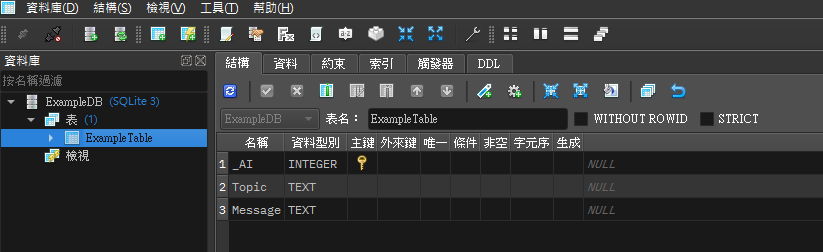
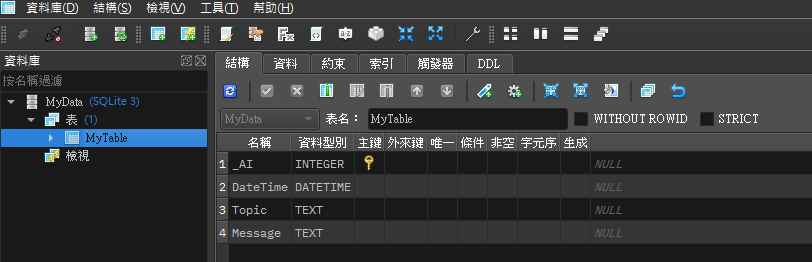
修改建立資料表的敘述與照片

Changed region(s): [[0.0, 0.0, 1.0, 1.0]]

diff --git a/index.md b/index.md
@@ -55,30 +55,34 @@ SQL是結構化查詢語言Structured Query Language的縮寫
 ## 建立資料表
 
 ```sql
-CREATE TABLE ExampleTable (_AI INTEGER PRIMARY KEY AUTOINCREMENT,Topic TEXT,Message TEXT);
+CREATE TABLE MyTable (_AI INTEGER PRIMARY KEY AUTOINCREMENT,DateTime DATETIME,Topic TEXT,Message TEXT);
 ```
 
 可以加上IF NOT EXISTS來判斷資料表是否存在，不存在才建立
 
 ```sql
-CREATE TABLE IF NOT EXISTS ExampleTable (_AI INTEGER PRIMARY KEY AUTOINCREMENT,Topic TEXT,Message TEXT);
+CREATE TABLE IF NOT EXISTS MyTable (_AI INTEGER PRIMARY KEY AUTOINCREMENT,DateTime DATETIME,Topic TEXT,Message TEXT);
 ```
 
-上述指令會建立一個新的資料表（不存在才建立）
+使用 CREATE TABLE 可以建立一個新的資料表。加上 IF NOT EXISTS 的判斷，可以確保只有在該表不存在時才會執行建立操作，避免重複建立相同名稱的資料表而導致錯誤
 
-資料表名稱為ExampleTable
+在上述SQL指令中：
 
-表中有3個欄位
-
+- 資料表名稱為MyTable
 - _AI：是一個Integer型態的主鍵，並套用AUTOINCREMENT屬性，表示在插入新資料時此欄位會自動遞增
+- DateTime：是一個DATETIME型態的欄位，可以儲存時間的資料
 - Topic：是一個TEXT型態的欄位，可以儲存字串資料
 - Message：是一個TEXT型態的欄位，可以儲存字串資料
 
-建立表格執行結果
+建立表格的執行結果如下圖所示：
 ![Image](./images/建立資料表.png)
 
 ## 插入資料
 
+```sql
+INSERT OR IGNORE INTO `MyTable` VALUES (NULL,DATETIME('now', 'localtime'),'Topic資料','Message資料')
+
+```
 
 ## 查詢資料
 
